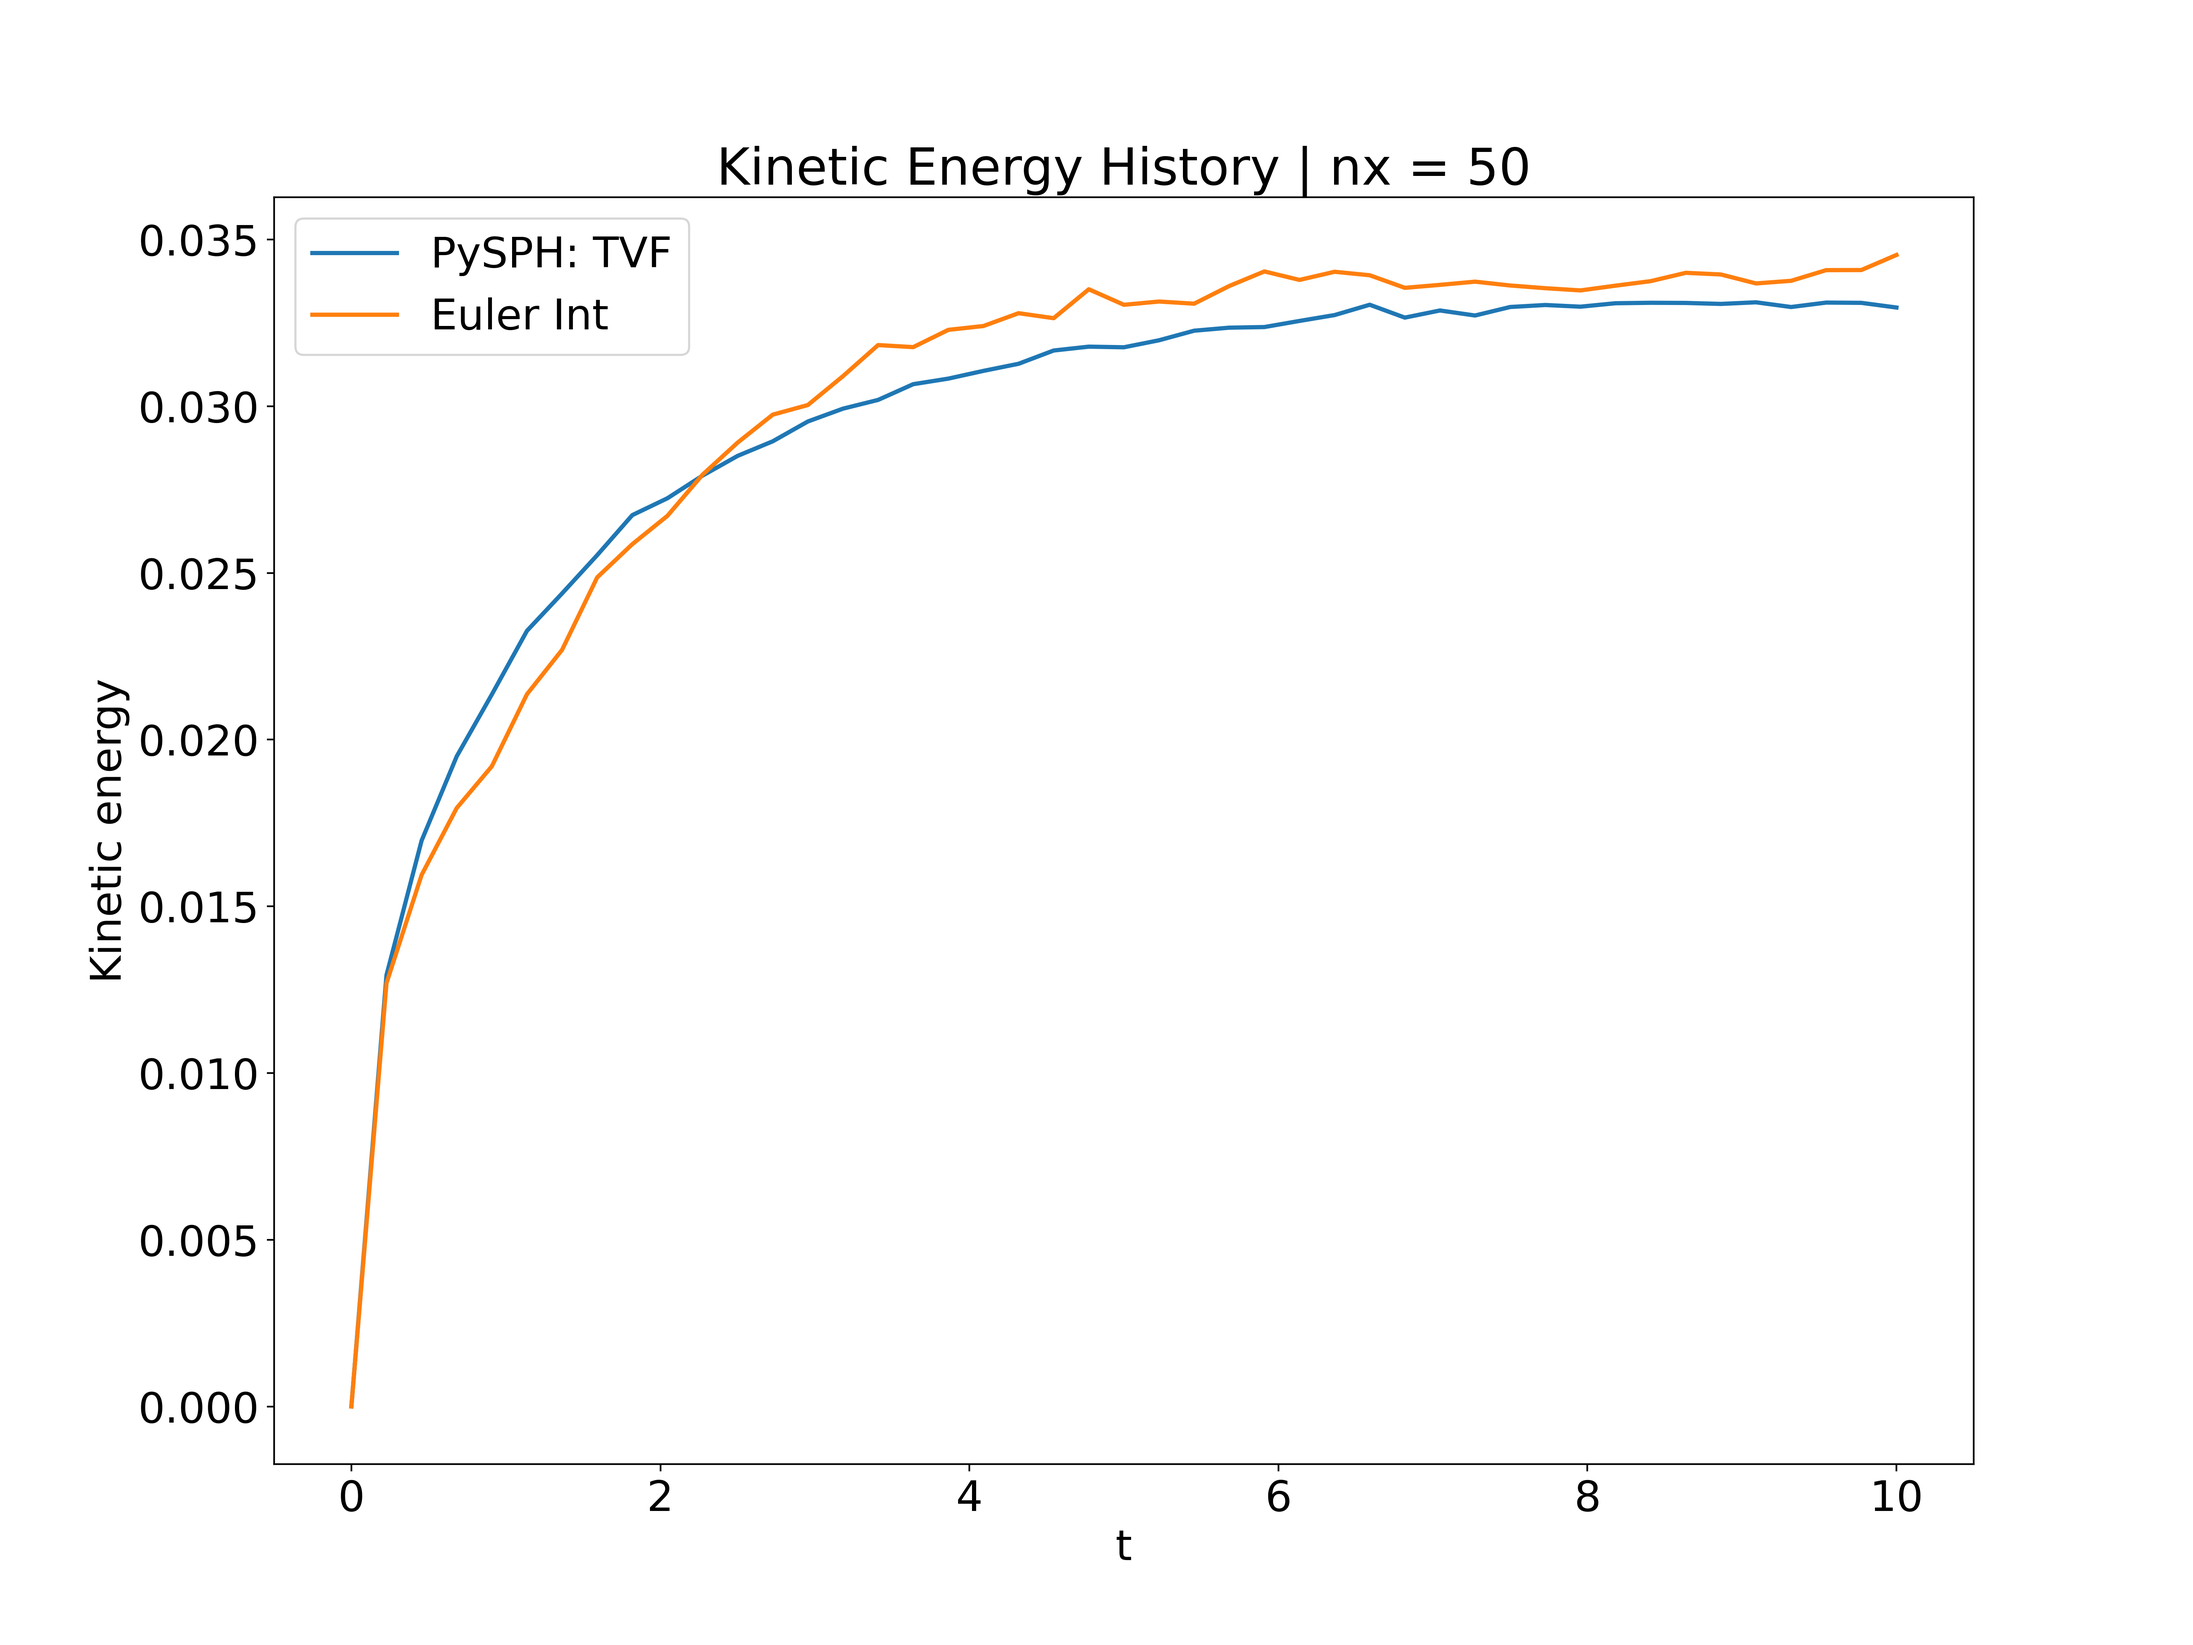
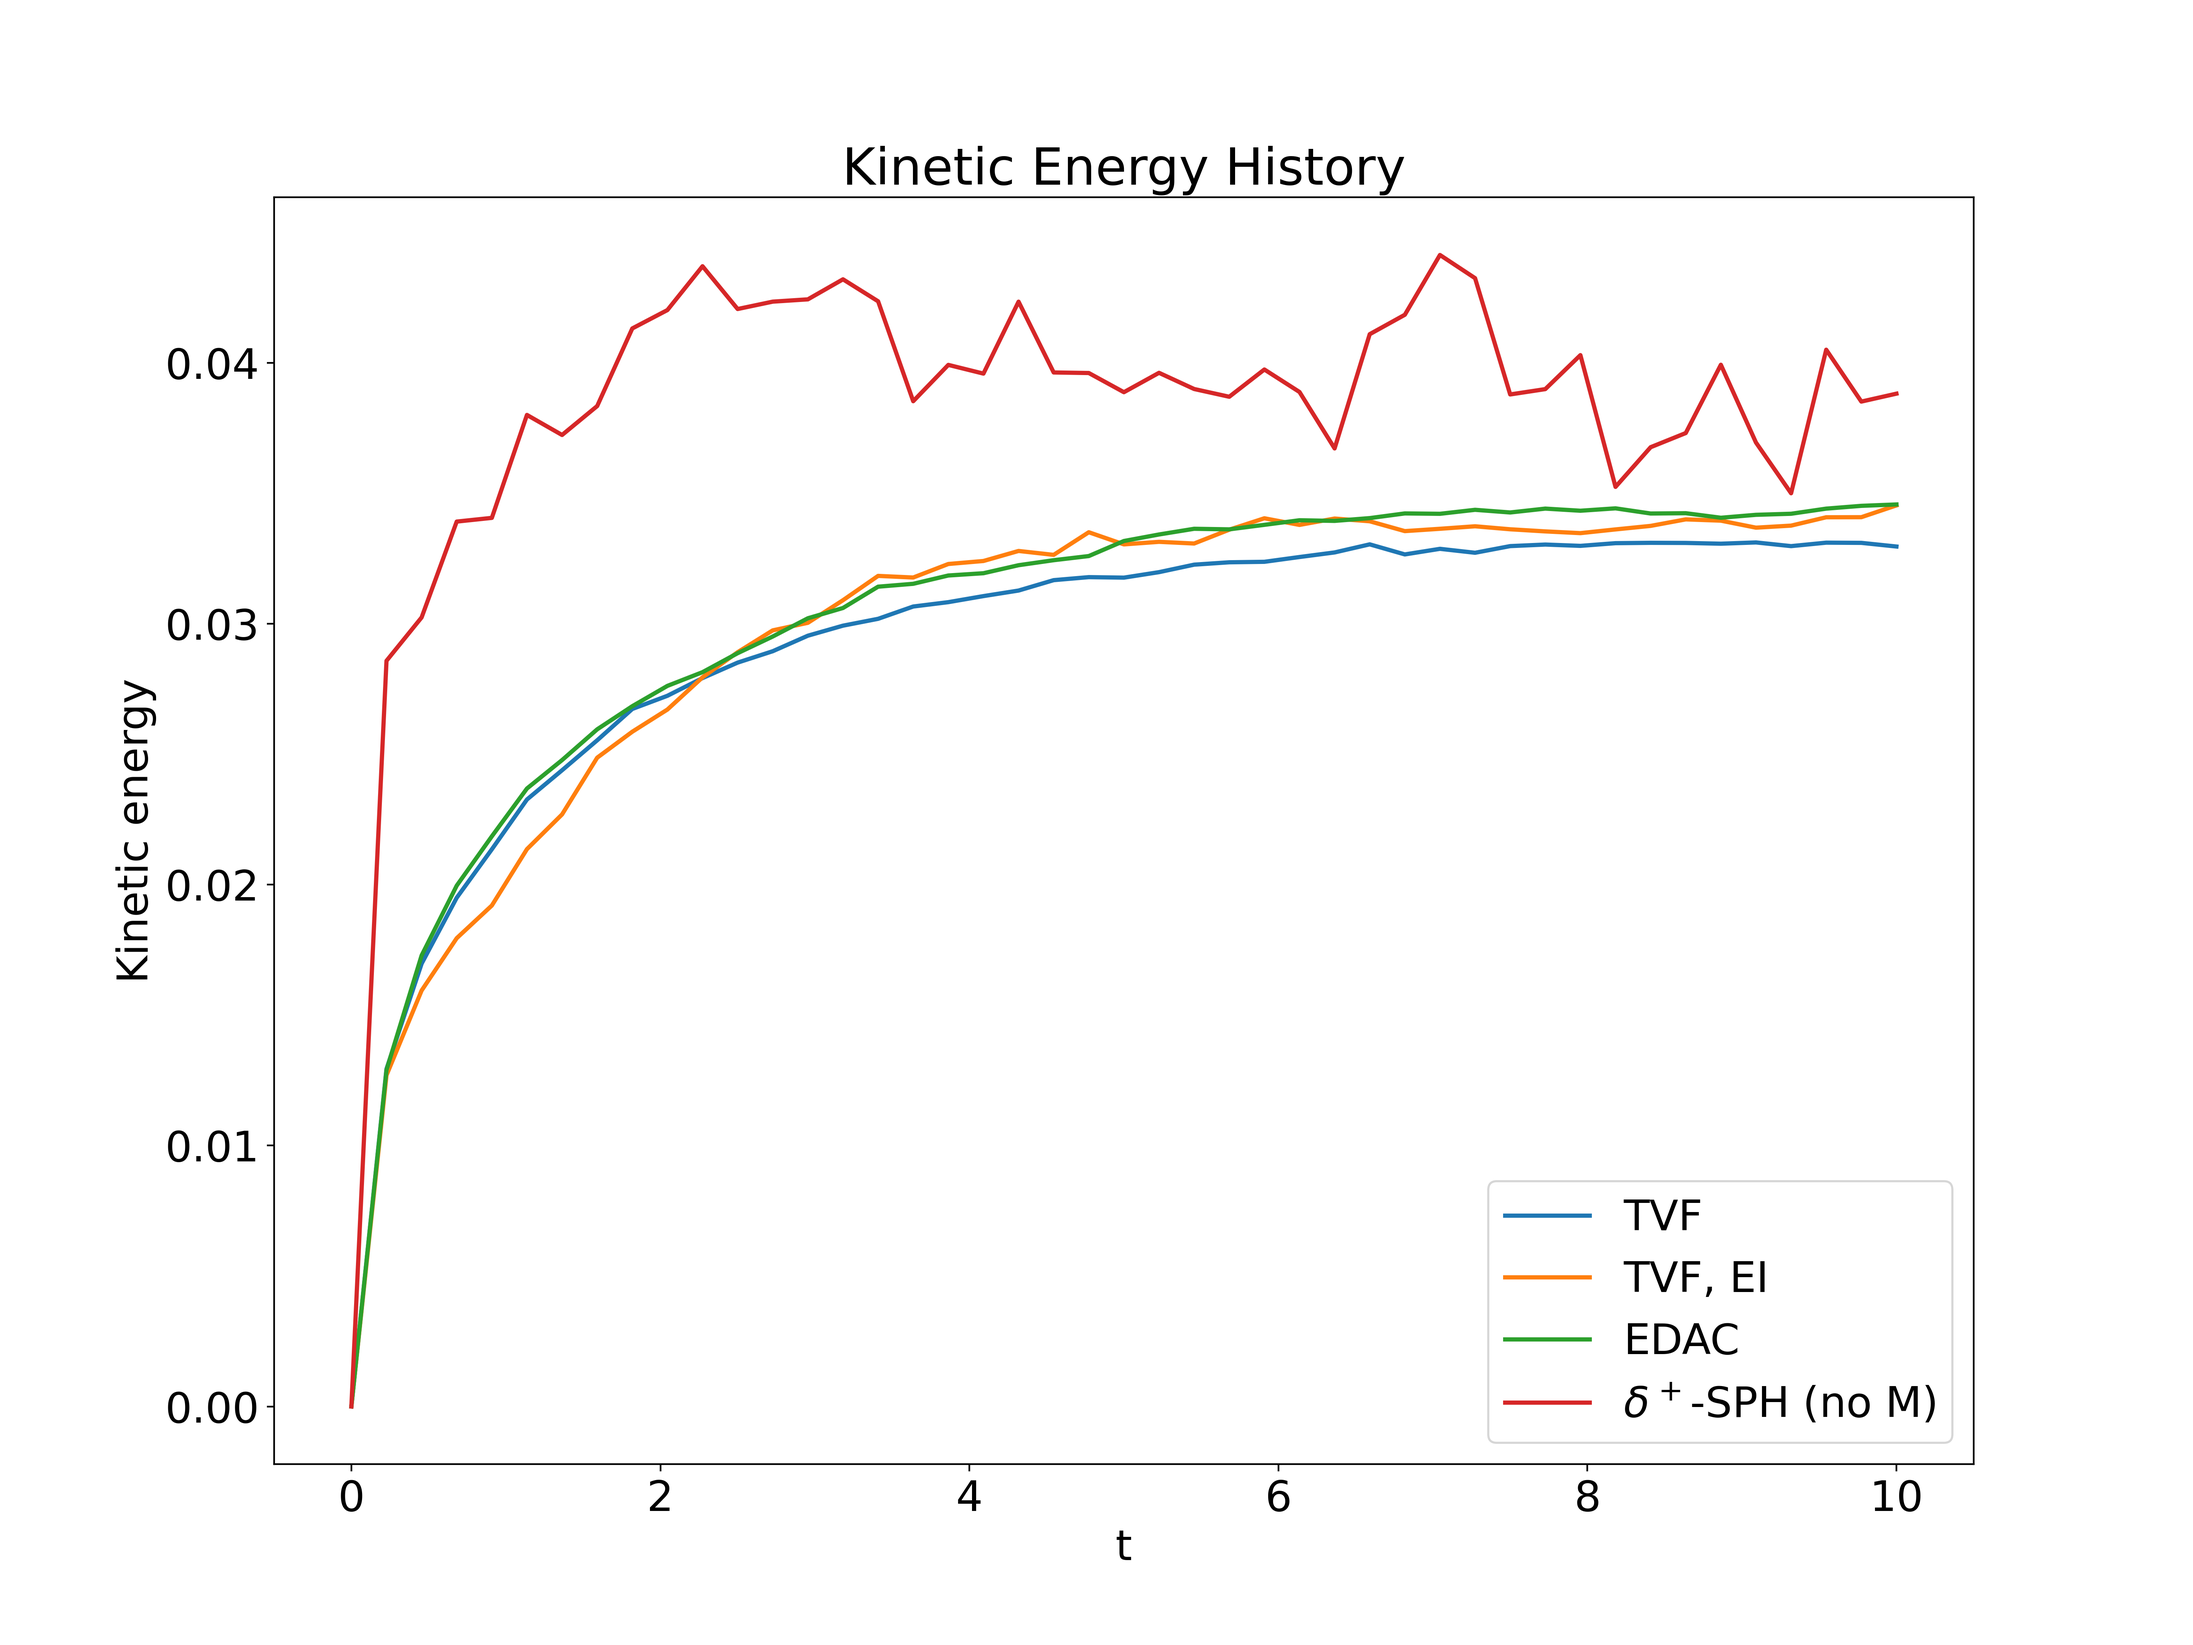
UPDATE: ------------- Cavity

diff --git a/SLP/Cavity/Cavity-PySPH.py b/SLP/Cavity/Cavity-PySPH.py
@@ -93,6 +93,9 @@ class Cavity(Application):
         dt_force = 1.0
         self.tf = 10.0
         self.dt = min(dt_cfl, dt_viscous, dt_force)
+        self.rho0 = rho0
+        self.p0 = p0
+        self.c0 = c0
 
     def create_particles(self):
         dx = self.dx
@@ -168,6 +171,15 @@ class Cavity(Application):
             ['x', 'y', 'z', 'u', 'v', 'w', 'rho', 'p', 'h', 'm', 'V', 'pid', 
             'gid', 'tag']
         )
+
+        add_props = ['rho0', 'x0', 'y0', 'z0']
+        for i in add_props:
+            fluid.add_property(i)
+            solid.add_property(i)
+        fluid.add_property('m_mat', stride=9)
+        fluid.add_property('gradrho', stride=3)
+        solid.add_property('m_mat', stride=9)
+        solid.add_property('gradrho', stride=3)
         
         return [fluid, solid]
 
@@ -177,8 +189,10 @@ class Cavity(Application):
         '''
 
         kernel = QuinticSpline(dim=2)
+        from SLP.dpsph.integrator import TransportVelocityStep_DPSPH
         
-        integrator = EulerIntegrator(fluid = EulerStep())
+        #integrator = PECIntegrator(fluid = TransportVelocityStep())
+        integrator = PECIntegrator(fluid=TransportVelocityStep_DPSPH())
 
         solver = Solver(
             kernel=kernel, dim=2, integrator=integrator, dt=self.dt, tf=self.tf, 
@@ -228,31 +242,29 @@ class Cavity(Application):
         equations = [
             Group(equations=[
 
-                SummationDensity(dest='fluid', sources=['fluid', 'solid'])
-                
-                ], real=False
-            ),
-            Group(equations=[
-
-                IsothermalEOS(dest='fluid', sources=['fluid', 'solid'], rho0=rho0, c0=c0, p0=p0),
-                #StateEquation(dest='fluid', sources=None, p0=p0, rho0=rho0), 
-                SetWallVelocity(dest='solid', sources=['fluid'])
-
+                #IsothermalEOS(dest='fluid', sources=['fluid', 'solid'], rho0=rho0, c0=c0, p0=p0),
+                GradientCorrectionPreStep(dest='fluid', sources=['fluid', 'solid'], dim=2),
+                StateEquation(dest='fluid', sources=None, p0=p0, rho0=rho0), 
+                SetWallVelocity(dest='solid', sources=['fluid']),
+                SolidWallPressureBC(dest='solid', sources=['fluid'], rho0=rho0, p0=p0),
                 ], real=False
             ),            
-            Group(equations=[
-                
-                SolidWallPressureBC(dest='solid', sources=['fluid'], rho0=rho0, p0=p0)
-  
-                ], real=False
-            ), 
 
             Group(equations=[
-            
+
                 MomentumEquationPressureGradient(dest='fluid', sources=['fluid', 'solid'], pb=p0),
                 MomentumEquationViscosity(dest='fluid', sources=['fluid'], nu=self.nu), 
                 SolidWallNoSlipBC(dest='fluid', sources=['solid'], nu=self.nu), 
-                MomentumEquationArtificialStress(dest='fluid', sources=['fluid'])
+                MomentumEquationArtificialStress(dest='fluid', sources=['fluid']),
+                
+                #LaminarViscosityDeltaSPHPreStep(dest='fluid', sources=['fluid', 'solid']),
+                #LaminarViscosityDeltaSPH(dest='fluid', sources=['fluid', 'solid'], dim=2, rho0=self.rho0, nu=self.nu), 
+                #Spatial_Acceleration(dest='fluid', sources=['fluid']),
+
+                ContinuityEquation(dest='fluid', sources=['fluid', 'solid']),
+                GradientCorrection(dest='fluid', sources=['fluid', 'solid'], dim=2, tol=0.1), 
+                ContinuityEquationDeltaSPHPreStep(dest='fluid', sources=['fluid', 'solid']), 
+                ContinuityEquationDeltaSPH(dest='fluid', sources=['fluid', 'solid'], c0=self.c0, delta=0.1),
             
                 ], real=True
             )

diff --git a/SLP/Cavity/plot_pysph_testing.py b/SLP/Cavity/plot_pysph_testing.py
@@ -8,12 +8,12 @@ plt.rcParams.update({'font.size': 20})
 
 file_base = '/home/prajwal/Desktop/Winter_Project/SLP-Smoothed-Particle-Hydrodynamics/SLP/Cavity/PySPH-Testing'
 
-sph_schm = ['00', '01']
+sph_schm = ['00', '01', '02', '03']
 
 sph_schm_legend = {
-    '00': 'PySPH: TVF', '01': 'Euler Int'
+    '00': 'TVF', '01': 'TVF, EI', '02': 'EDAC', '03': r'$\delta^+$-SPH (no M)',
 }
-title_additional = ' | nx = 50'
+title_additional = ''
 savefig_additional = ''
 
 ################################################################################
@@ -115,3 +115,78 @@ for schm in sph_schm:
     plt.title('Streamlines at %s seconds' % tf)
     tle = file_base + '/streamplot_' + schm + '.png' 
     plt.savefig(tle, dpi=400)
+
+
+
+################################################################################
+## Run-time
+################################################################################
+def extract_RT(file_loc):
+
+    from os import walk
+    files = []
+    for (dirpath, dirnames, filenames) in walk(file_loc):
+        files.extend(filenames)
+        break
+
+    fname = ''
+    for i in files:
+        if i.endswith('.log'):
+            fname = i
+
+    file_loc += '/' + fname
+    data = open(file_loc, 'r')
+    lines = data.read()
+    rt = float(lines[lines.find('Run took: ')+10:].split(' secs')[0])
+    data.close()
+
+    return rt
+
+
+RT_y = []
+RT_x = []
+for schm in sph_schm:
+    file_loc = file_base + '/Outputs/' + schm 
+    # Read data
+    RT_y.append(extract_RT(file_loc))
+    RT_x.append(sph_schm_legend[schm])
+    
+# Plotting
+plt.rcParams.update({'font.size': 14})
+fig, ax = plt.subplots(figsize=sz)
+
+# Horizontal Bar Plot 
+ax.barh(RT_x, RT_y, height=0.4)
+# Remove axes splines 
+for s in ['top', 'bottom', 'left', 'right']: 
+    ax.spines[s].set_visible(False) 
+  
+# Remove x, y Ticks 
+ax.xaxis.set_ticks_position('none') 
+ax.yaxis.set_ticks_position('none') 
+
+ax.set_xlabel(r'Run time (second) $\rightarrow$')
+  
+# Add padding between axes and labels 
+#ax.xaxis.set_tick_params(pad = 5) 
+#ax.yaxis.set_tick_params(pad = 10) 
+  
+# Add x, y gridlines 
+ax.grid(b = True, color ='black', 
+        linestyle ='-.', linewidth = 0.7, 
+        alpha = 0.2) 
+  
+# Show top values  
+#ax.invert_yaxis() 
+  
+# Add annotation to bars 
+for i in ax.patches: 
+    plt.text(i.get_width(), i.get_y()+0.2,  
+             str(round((i.get_width()), 2)), 
+             fontsize = 11, fontweight ='bold', 
+             color ='grey') 
+  
+# Add Plot Title 
+ax.set_title('Run Time - SPH Schemes') 
+tle = file_base + '/run_time' + savefig_additional + '.png' 
+plt.savefig(tle, dpi=400)

diff --git a/SLP/dpsph/integrator.py b/SLP/dpsph/integrator.py
@@ -43,3 +43,50 @@ class EulerStep_DPSPH(IntegratorStep):
         """
         d_x[d_idx] += d_DX[d_idx]
         d_y[d_idx] += d_DY[d_idx]
+
+
+class TransportVelocityStep_DPSPH(IntegratorStep):
+    """Integrator defined in 'A transport velocity formulation for
+    smoothed particle hydrodynamics', 2013, JCP, 241, pp 292--307
+
+    For a predictor-corrector style of integrator, this integrator
+    should operate only in PEC mode.
+
+    """
+    def initialize(self, d_rho0, d_idx, d_rho):
+        d_rho0[d_idx] = d_rho[d_idx]
+
+    def stage1(self, d_idx, d_u, d_v, d_w, d_au, d_av, d_aw, d_uhat, d_auhat, d_vhat,
+                  d_avhat, d_what, d_awhat, d_x, d_y, d_z, dt, d_rho0, d_arho, d_rho):
+        dtb2 = 0.5*dt
+
+        # velocity update eqn (14)
+        d_u[d_idx] += dtb2*d_au[d_idx]
+        d_v[d_idx] += dtb2*d_av[d_idx]
+        d_w[d_idx] += dtb2*d_aw[d_idx]
+
+        # advection velocity update eqn (15)
+        d_uhat[d_idx] = d_u[d_idx] + dtb2*d_auhat[d_idx]
+        d_vhat[d_idx] = d_v[d_idx] + dtb2*d_avhat[d_idx]
+        d_what[d_idx] = d_w[d_idx] + dtb2*d_awhat[d_idx]
+
+        # position update eqn (16)
+        d_x[d_idx] += dt*d_uhat[d_idx]
+        d_y[d_idx] += dt*d_vhat[d_idx]
+        d_z[d_idx] += dt*d_what[d_idx]
+
+        d_rho[d_idx] = d_rho0[d_idx] + dtb2 * d_arho[d_idx]
+
+    def stage2(self, d_idx, d_u, d_v, d_w, d_au, d_av, d_aw, d_vmag2, dt, d_rho0, d_arho, d_rho):
+        dtb2 = 0.5*dt
+
+        # corrector update eqn (17)
+        d_u[d_idx] += dtb2*d_au[d_idx]
+        d_v[d_idx] += dtb2*d_av[d_idx]
+        d_w[d_idx] += dtb2*d_aw[d_idx]
+
+        # magnitude of velocity squared
+        d_vmag2[d_idx] = (d_u[d_idx]*d_u[d_idx] + d_v[d_idx]*d_v[d_idx] +
+                          d_w[d_idx]*d_w[d_idx])
+        
+        d_rho[d_idx] = d_rho0[d_idx] + dt * d_arho[d_idx]

diff --git a/SLP/Cavity/PySPH-Testing/README.md b/SLP/Cavity/PySPH-Testing/README.md
@@ -2,38 +2,11 @@
 
 ## PySPH Testing
 
-* 00 - `pysph run taylor_green --openmp --nx 50 --pfreq 100 --scheme wcsph --delta-sph`
+* 00 - `cavity.py --openmp` - TVF
 
+* 01 - `Cavity-PySPH.py --openmp` - TVF, EI
 
-* 01 - `pysph run taylor_green --openmp --nx 50 --pfreq 100 --scheme wcsph --delta-sph --perturb 0.2`
+* 02 - `cavity.py --scheme edac --openmp` - EDAC
 
-* 02 - `Taylor_Green_3.py --openmp --pfreq 100` - nx = 50 | perturb = 0
+* 03 - `Cavity-PySPH.py --openmp` -  `PECIntegrator(fluid=TransportVelocityStep_DPSPH())` | IsothermalEOS, Continuity Equation | Correct Order
 
-* 03 - `Taylor_Green_3.py --openmp --pfreq 100` - nx = 50 | perturb = 0.2
-
-* 04 - `Taylor_Green-PySPH.py --openmp --pfreq 100` - nx = 50 | perturb = 0 | c0 = 10.0 | IsothermalEOS, Spatial_Acceleration
-
-* 05 - `Taylor_Green-PySPH.py --openmp --pfreq 100` - nx = 50 | perturb = 0 | c0 = 10.0 | IsothermalEOS, Spatial_Acceleration, LaminarViscosityDeltaSPHPreStep | QuinticSpline | PECIntegrator
-
-* 06 - `Taylor_Green-PySPH.py --openmp --pfreq 100` - nx = 50 | perturb = 0 | c0 = 10.0 | IsothermalEOS, Spatial_Acceleration, LaminarViscosityDeltaSPHPreStep - Correct Order | QuinticSpline | PECIntegrator
-
-* 07 - `Taylor_Green-PySPH.py --openmp --pfreq 100` - nx = 50 | perturb = 0.2 | c0 = 10.0 | IsothermalEOS, Spatial_Acceleration, LaminarViscosityDeltaSPHPreStep - Correct Order | QuinticSpline | PECIntegrator
-
-* 08 - `pysph run taylor_green --openmp --nx 50 --pfreq 100 --scheme edac --perturb 0.2`
-
-* 09 - `pysph run taylor_green --openmp --nx 50 --pfreq 100 --scheme edac `
-
-* 10 - `Taylor_Green-PySPH.py --openmp --pfreq 100` - nx = 50 | perturb = 0.2 | c0 = 10.0 | TaitEOS, Spatial_Acceleration, LaminarViscosityDeltaSPHPreStep - Correct Order | QuinticSpline | PECIntegrator
-
-* 11 - `Taylor_Green-PySPH.py --openmp --pfreq 100` - nx = 30 | perturb = 0.2 | c0 = 10.0 | IsothermalEOS, Spatial_Acceleration, LaminarViscosityDeltaSPHPreStep - Correct Order | QuinticSpline | PECIntegrator
-
-* 12 - `Taylor_Green_3.py --openmp --pfreq 100` - nx = 30 | perturb = 0.2
-
-* 13 - `pysph run taylor_green --openmp --nx 30 --pfreq 100 --scheme wcsph --delta-sph --perturb 0.2`
-
-* 14 - `pysph run taylor_green --openmp --nx 30 --pfreq 100 --scheme edac --perturb 0.2`
-
-
-
-
-* check - **Same as 00**

diff --git a/SLP/Elliptical-Drop/PySPH-Testing/README.md b/SLP/Elliptical-Drop/PySPH-Testing/README.md
@@ -4,7 +4,7 @@
 
 * 00 - `test.py --openmp --scheme wcsph --pfreq 30`
 
-* 01 - `test.py --openmp --scheme iisph --pfreq 30`
+* 01 - `test.py --openmp --scheme iisph --pfreq 5`
 
 * 02 - `test.py --openmp --scheme wcsph --delta-sph --pfreq 30`
 
